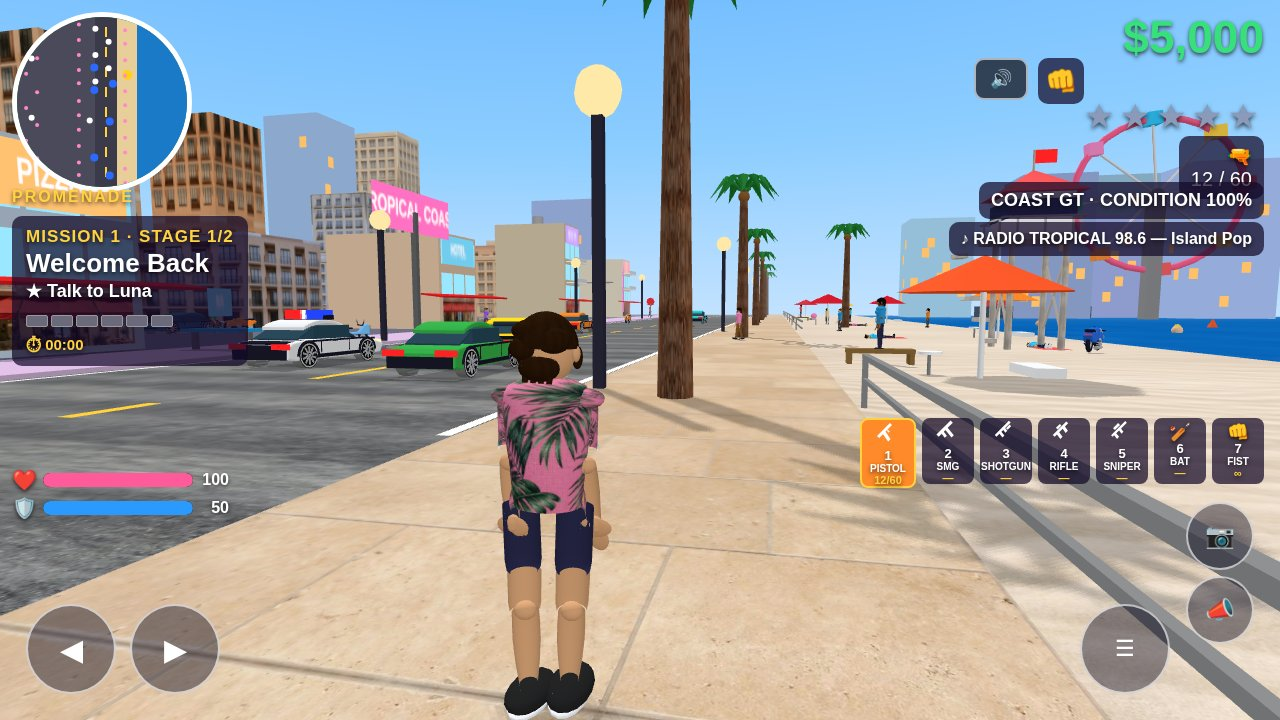
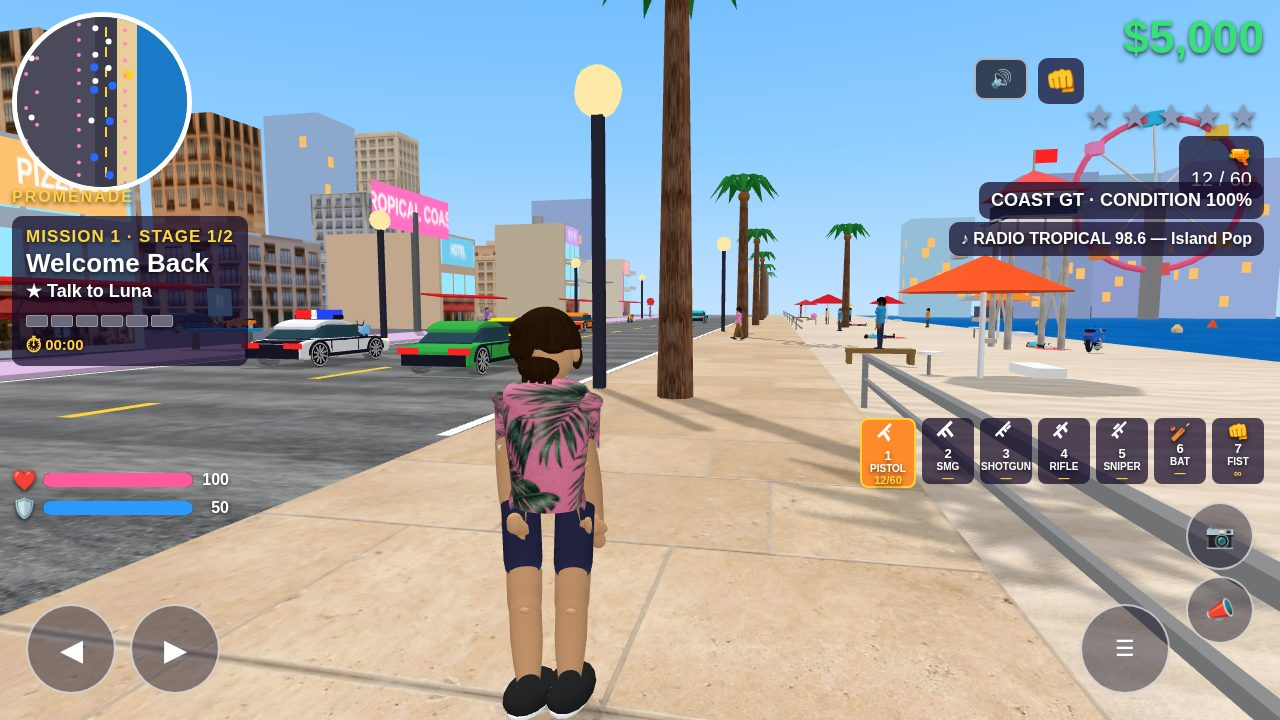
Tropical Coast: thicker arms/legs, buried elbow/knee joints, chunky shoes, fuller hair (round 2)

diff --git a/game/src/character.js b/game/src/character.js
@@ -9,12 +9,12 @@ var hairCols = [0x2a1a0a, 0x3a2a1a, 0x111111, 0x8a5a2a];
 // read as a rake), and a small round thumb bump on the inner edge.
 function makeHand(skinM, side) {
   var h = new THREE.Group();
-  var palm = new THREE.Mesh(new THREE.SphereGeometry(0.058, 16, 12), skinM);
+  var palm = new THREE.Mesh(new THREE.SphereGeometry(0.052, 16, 12), skinM);
   palm.scale.set(1.35, 1.0, 0.34); h.add(palm);
-  var fingerMass = new THREE.Mesh(new THREE.SphereGeometry(0.05, 14, 10), skinM);
-  fingerMass.scale.set(1.0, 1.55, 0.30); fingerMass.position.set(0, -0.078, 0.008); h.add(fingerMass);
-  var th = new THREE.Mesh(new THREE.SphereGeometry(0.016, 10, 8), skinM);
-  th.scale.set(1, 1.4, 0.8); th.position.set(-side * 0.052, -0.035, 0.012); h.add(th);
+  var fingerMass = new THREE.Mesh(new THREE.SphereGeometry(0.046, 14, 10), skinM);
+  fingerMass.scale.set(1.0, 1.55, 0.30); fingerMass.position.set(0, -0.072, 0.008); h.add(fingerMass);
+  var th = new THREE.Mesh(new THREE.SphereGeometry(0.015, 10, 8), skinM);
+  th.scale.set(1, 1.4, 0.8); th.position.set(-side * 0.048, -0.032, 0.012); h.add(th);
   return h;
 }
 // A shoe: a wide elliptical upper (not a ball, not a box) on a thin light
@@ -23,9 +23,9 @@ function makeShoe(color, s) {
   var g = new THREE.Group();
   var m = new THREE.MeshLambertMaterial({ color: color });
   var body = new THREE.Mesh(new THREE.SphereGeometry(0.075 * s, 16, 12), m);
-  body.scale.set(1.15, 0.55, 1.9); body.position.set(0, -0.39, 0.02); g.add(body);
-  var sole = new THREE.Mesh(new THREE.SphereGeometry(0.075 * s, 16, 12), new THREE.MeshLambertMaterial({ color: 0xf5f5f5 }));
-  sole.scale.set(1.0, 0.30, 1.85); sole.position.set(0, -0.43, 0.02); g.add(sole);
+  body.scale.set(1.22, 0.62, 1.95); body.position.set(0, -0.39, 0.02); g.add(body);
+  var sole = new THREE.Mesh(new THREE.SphereGeometry(0.075 * s, 16, 12), new THREE.MeshLambertMaterial({ color: 0xffffff }));
+  sole.scale.set(1.05, 0.38, 1.9); sole.position.set(0, -0.425, 0.02); g.add(sole);
   [[-0.352, 0.06], [-0.358, 0.10], [-0.370, 0.14]].forEach(function (lz) {
     var lace = new THREE.Mesh(new THREE.BoxGeometry(0.04 * s, 0.008 * s, 0.018 * s), new THREE.MeshLambertMaterial({ color: 0xf5f5f5 }));
     lace.position.set(0, lz[0], lz[1]); g.add(lace);
@@ -47,8 +47,8 @@ function makeHead(skinM, hairM, opts) {
   skull.scale.set(1, 1.15, 1.0); head.add(skull);
   var jaw = new THREE.Mesh(new THREE.SphereGeometry(0.085, 14, 12), skinM);
   jaw.scale.set(0.82, 0.62, 0.88); jaw.position.set(0, -0.075, 0.015); head.add(jaw);
-  var hair = new THREE.Mesh(new THREE.SphereGeometry(0.14, 20, 16, 0, Math.PI * 2, 0, Math.PI * 0.50), hairM);
-  hair.scale.set(1.02, 1.12, 1.05); hair.position.set(0, 0.025, -0.015); head.add(hair);
+  var hair = new THREE.Mesh(new THREE.SphereGeometry(0.15, 20, 16, 0, Math.PI * 2, 0, Math.PI * 0.50), hairM);
+  hair.scale.set(1.05, 1.18, 1.08); hair.position.set(0, 0.025, -0.015); head.add(hair);
   var nape = new THREE.Mesh(new THREE.SphereGeometry(0.10, 14, 12), hairM);
   nape.scale.set(0.95, 0.6, 0.55); nape.position.set(0, -0.06, -0.095); head.add(nape);
   [-0.055, -0.018, 0.018, 0.055].forEach(function (lx) {
@@ -56,15 +56,15 @@ function makeHead(skinM, hairM, opts) {
     lock.position.set(lx, -0.10, -0.11); lock.rotation.x = 0.15; head.add(lock);
   });
   var crown = new THREE.Mesh(new THREE.SphereGeometry(0.105, 14, 12), hairM);
-  crown.scale.set(1.25, 0.55, 1.05); crown.position.set(0.02, 0.095, -0.03); head.add(crown);
+  crown.scale.set(1.35, 0.65, 1.10); crown.position.set(0.02, 0.10, -0.03); head.add(crown);
   var backB1 = new THREE.Mesh(new THREE.SphereGeometry(0.08, 14, 12), hairM);
   backB1.scale.set(1.0, 0.7, 0.6); backB1.position.set(-0.06, 0.06, -0.10); head.add(backB1);
   var backB2 = new THREE.Mesh(new THREE.SphereGeometry(0.07, 14, 12), hairM);
   backB2.scale.set(0.9, 0.7, 0.6); backB2.position.set(0.07, 0.02, -0.11); head.add(backB2);
   var sweep = new THREE.Mesh(new THREE.SphereGeometry(0.105, 14, 12), hairM);
-  sweep.scale.set(0.55, 0.85, 0.95); sweep.position.set(0.085, 0.02, -0.01); head.add(sweep);
+  sweep.scale.set(0.6, 0.9, 1.0); sweep.position.set(0.085, 0.02, -0.01); head.add(sweep);
   var fringe = new THREE.Mesh(new THREE.SphereGeometry(0.10, 14, 12), hairM);
-  fringe.scale.set(1.0, 0.35, 0.5); fringe.position.set(0.04, 0.10, 0.085); head.add(fringe);
+  fringe.scale.set(1.05, 0.45, 0.55); fringe.position.set(0.04, 0.105, 0.09); head.add(fringe);
   [-0.125, 0.125].forEach(function (ex) {
     var sb = new THREE.Mesh(new THREE.SphereGeometry(0.04, 12, 10), hairM);
     sb.scale.set(0.6, 1.3, 0.7); sb.position.set(ex, -0.02, 0.05); head.add(sb);
@@ -144,14 +144,14 @@ function person(shirt, pants, female, opts) {
   legL.rotation.z = 0.02; legR.rotation.z = -0.08;
   [legL, legR].forEach(function (lg) {
     var thighPts = [];
-    [[0.084, 0.25], [0.084, -0.17], [0.078, -0.23], [0.060, -0.25]].forEach(function (p) { thighPts.push(new THREE.Vector2(p[0], p[1])); });
+    [[0.088, 0.25], [0.088, -0.17], [0.082, -0.23], [0.064, -0.25]].forEach(function (p) { thighPts.push(new THREE.Vector2(p[0], p[1])); });
     var thigh = new THREE.Mesh(new THREE.LatheGeometry(thighPts, 20), pantsM);
     thigh.position.y = -0.25; lg.add(thigh);
     var knee = new THREE.Group(); knee.position.y = -0.50; lg.add(knee);
-    var kneeBall = new THREE.Mesh(new THREE.SphereGeometry(0.052, 12, 10), pantsM);
-    kneeBall.scale.set(1.0, 0.8, 0.9); knee.add(kneeBall);
+    var kneeBall = new THREE.Mesh(new THREE.SphereGeometry(0.024, 12, 10), pantsM);
+    kneeBall.scale.set(1.0, 0.55, 0.7); kneeBall.position.z = -0.008; knee.add(kneeBall);
     var calfPts = [];
-    [[0.062, 0.00], [0.064, -0.06], [0.064, -0.14], [0.056, -0.24], [0.044, -0.33], [0.034, -0.40], [0.032, -0.44]].forEach(function (p) { calfPts.push(new THREE.Vector2(p[0], p[1])); });
+    [[0.072, 0.10], [0.074, 0.00], [0.074, -0.06], [0.074, -0.14], [0.066, -0.24], [0.054, -0.33], [0.044, -0.40], [0.042, -0.44]].forEach(function (p) { calfPts.push(new THREE.Vector2(p[0], p[1])); });
     var calf = new THREE.Mesh(new THREE.LatheGeometry(calfPts, 20), pantsM);
     knee.add(calf);
     knee.add(makeShoe(0x222222, 1.25));
@@ -170,29 +170,29 @@ function person(shirt, pants, female, opts) {
   var neck = new THREE.Mesh(new THREE.CapsuleGeometry(0.068, 0.08, 4, 12), skin);
   neck.position.y = 1.52; g.add(neck);
   var armL = new THREE.Group(), armR = new THREE.Group();
-  armL.position.set(-0.17, 1.44, 0); armR.position.set(0.17, 1.44, 0);
+  armL.position.set(-0.16, 1.44, 0); armR.position.set(0.16, 1.44, 0);
   armL.rotation.z = 0.01; armR.rotation.z = -0.01;
   [[armL, -1], [armR, 1]].forEach(function (pair) {
     var ag = pair[0], side = pair[1];
-    var shoulder = new THREE.Mesh(new THREE.SphereGeometry(0.075, 16, 12), female ? skin : shirtM);
-    shoulder.scale.set(1.25, 0.62, 1.0);
+    var shoulder = new THREE.Mesh(new THREE.SphereGeometry(0.085, 16, 12), female ? skin : shirtM);
+    shoulder.scale.set(1.15, 0.55, 0.95); shoulder.position.y = -0.015;
     ag.add(shoulder);
     var slPts = [];
-    [[0.060, 0.00], [0.062, -0.02], [0.060, -0.06], [0.056, -0.12], [0.052, -0.20]].forEach(function (p) { slPts.push(new THREE.Vector2(p[0], p[1])); });
+    [[0.080, 0.00], [0.082, -0.02], [0.080, -0.06], [0.076, -0.12], [0.072, -0.20]].forEach(function (p) { slPts.push(new THREE.Vector2(p[0], p[1])); });
     var sleeve = new THREE.Mesh(new THREE.LatheGeometry(slPts, 20), female ? skin : shirtM);
     sleeve.position.y = -0.03; ag.add(sleeve);
     var elbowBend = -0.25 + (rnd() - 0.5) * 0.12;
     if (opts && opts.flat) elbowBend = 0;
     var elbow = new THREE.Group(); elbow.position.y = -0.30;
     elbow.rotation.x = elbowBend; elbow.rotation.z = side * 0.03; ag.add(elbow);
-    var elbowBall = new THREE.Mesh(new THREE.SphereGeometry(0.046, 12, 10), skin);
-    elbowBall.scale.set(1, 0.85, 0.9);
+    var elbowBall = new THREE.Mesh(new THREE.SphereGeometry(0.024, 12, 10), skin);
+    elbowBall.scale.set(1, 0.6, 0.75);
     elbow.add(elbowBall);
     var forePts = [];
-    [[0.045, 0.00], [0.047, -0.06], [0.045, -0.14], [0.038, -0.22], [0.033, -0.28], [0.030, -0.32]].forEach(function (p) { forePts.push(new THREE.Vector2(p[0], p[1])); });
+    [[0.068, 0.10], [0.070, 0.00], [0.070, -0.06], [0.068, -0.14], [0.061, -0.22], [0.056, -0.28], [0.052, -0.32]].forEach(function (p) { forePts.push(new THREE.Vector2(p[0], p[1])); });
     var fore = new THREE.Mesh(new THREE.LatheGeometry(forePts, 20), skin);
     elbow.add(fore);
-    var wrist = new THREE.Mesh(new THREE.CapsuleGeometry(0.032, 0.02, 4, 12), skin);
+    var wrist = new THREE.Mesh(new THREE.CapsuleGeometry(0.040, 0.02, 4, 12), skin);
     wrist.position.y = -0.315; elbow.add(wrist);
     var hand = makeHand(skin, side); hand.position.y = -0.33; hand.rotation.x = (opts && opts.flat) ? 0 : -0.15; elbow.add(hand);
   });
@@ -219,16 +219,16 @@ var gito = new THREE.Group();
   legL.rotation.z = 0.05; legR.rotation.z = -0.05;
   [legL, legR].forEach(function (lg) {
     var shortsPts = [];
-    [[0.084, 0.16], [0.084, -0.10], [0.078, -0.14], [0.062, -0.16]].forEach(function (p) { shortsPts.push(new THREE.Vector2(p[0], p[1])); });
+    [[0.088, 0.16], [0.088, -0.10], [0.082, -0.14], [0.066, -0.16]].forEach(function (p) { shortsPts.push(new THREE.Vector2(p[0], p[1])); });
     var shorts = new THREE.Mesh(new THREE.LatheGeometry(shortsPts, 20), mPants); shorts.position.y = -0.16; lg.add(shorts);
     var thighSkinPts = [];
-    [[0.078, 0.09], [0.075, -0.05], [0.068, -0.09]].forEach(function (p) { thighSkinPts.push(new THREE.Vector2(p[0], p[1])); });
+    [[0.082, 0.09], [0.079, -0.05], [0.072, -0.09]].forEach(function (p) { thighSkinPts.push(new THREE.Vector2(p[0], p[1])); });
     var thighSkin = new THREE.Mesh(new THREE.LatheGeometry(thighSkinPts, 20), mSkin); thighSkin.position.y = -0.41; lg.add(thighSkin);
     var knee = new THREE.Group(); knee.position.y = -0.50; lg.add(knee);
-    var kneeBall = new THREE.Mesh(new THREE.SphereGeometry(0.052, 12, 10), mSkin);
-    kneeBall.scale.set(1.0, 0.8, 0.9); knee.add(kneeBall);
+    var kneeBall = new THREE.Mesh(new THREE.SphereGeometry(0.024, 12, 10), mSkin);
+    kneeBall.scale.set(1.0, 0.55, 0.7); kneeBall.position.z = -0.008; knee.add(kneeBall);
     var calfPts = [];
-    [[0.062, 0.00], [0.064, -0.06], [0.064, -0.14], [0.056, -0.24], [0.044, -0.33], [0.034, -0.40], [0.032, -0.44]].forEach(function (p) { calfPts.push(new THREE.Vector2(p[0], p[1])); });
+    [[0.072, 0.10], [0.074, 0.00], [0.074, -0.06], [0.074, -0.14], [0.066, -0.24], [0.054, -0.33], [0.044, -0.40], [0.042, -0.44]].forEach(function (p) { calfPts.push(new THREE.Vector2(p[0], p[1])); });
     var calf = new THREE.Mesh(new THREE.LatheGeometry(calfPts, 20), mSkin);
     knee.add(calf);
     knee.add(makeShoe(0x222222, 1.25));
@@ -250,28 +250,28 @@ var gito = new THREE.Group();
   var collar = new THREE.Mesh(new THREE.LatheGeometry(collarPts, 16), new THREE.MeshLambertMaterial({ color: 0xf5f5f5 }));
   collar.position.y = 1.50; gito.add(collar);
   var armL = new THREE.Group(), armR = new THREE.Group();
-  armL.position.set(-0.17, 1.44, 0); armR.position.set(0.17, 1.44, 0);
+  armL.position.set(-0.16, 1.44, 0); armR.position.set(0.16, 1.44, 0);
   armL.rotation.z = 0.01; armR.rotation.z = -0.01;
   [[armL, -1], [armR, 1]].forEach(function (pair) {
     var ag = pair[0], side = pair[1];
-    var shoulder = new THREE.Mesh(new THREE.SphereGeometry(0.075, 16, 12), mShirt);
-    shoulder.scale.set(1.25, 0.62, 1.0);
+    var shoulder = new THREE.Mesh(new THREE.SphereGeometry(0.085, 16, 12), mShirt);
+    shoulder.scale.set(1.15, 0.55, 0.95); shoulder.position.y = -0.015;
     ag.add(shoulder);
     var slPts = [];
-    [[0.060, 0.00], [0.062, -0.02], [0.060, -0.06], [0.056, -0.12], [0.052, -0.20]].forEach(function (p) { slPts.push(new THREE.Vector2(p[0], p[1])); });
+    [[0.080, 0.00], [0.082, -0.02], [0.080, -0.06], [0.076, -0.12], [0.072, -0.20]].forEach(function (p) { slPts.push(new THREE.Vector2(p[0], p[1])); });
     var sleeve = new THREE.Mesh(new THREE.LatheGeometry(slPts, 20), mShirt); sleeve.position.y = -0.03; ag.add(sleeve);
     var cuffPts = [];
-    [[0.052, 0.015], [0.058, 0.008], [0.058, -0.008], [0.052, -0.015]].forEach(function (p) { cuffPts.push(new THREE.Vector2(p[0], p[1])); });
+    [[0.058, 0.015], [0.064, 0.008], [0.064, -0.008], [0.058, -0.015]].forEach(function (p) { cuffPts.push(new THREE.Vector2(p[0], p[1])); });
     var cuff = new THREE.Mesh(new THREE.LatheGeometry(cuffPts, 16), new THREE.MeshLambertMaterial({ color: 0xf5f5f5 })); cuff.position.y = -0.22; ag.add(cuff);
     var elbow = new THREE.Group(); elbow.position.y = -0.30; elbow.rotation.x = -0.25; elbow.rotation.z = side * 0.03; ag.add(elbow);
-    var elbowBall = new THREE.Mesh(new THREE.SphereGeometry(0.046, 12, 10), mSkin);
-    elbowBall.scale.set(1, 0.85, 0.9);
+    var elbowBall = new THREE.Mesh(new THREE.SphereGeometry(0.024, 12, 10), mSkin);
+    elbowBall.scale.set(1, 0.6, 0.75);
     elbow.add(elbowBall);
     var forePts = [];
-    [[0.045, 0.00], [0.047, -0.06], [0.045, -0.14], [0.038, -0.22], [0.033, -0.28], [0.030, -0.32]].forEach(function (p) { forePts.push(new THREE.Vector2(p[0], p[1])); });
+    [[0.068, 0.10], [0.070, 0.00], [0.070, -0.06], [0.068, -0.14], [0.061, -0.22], [0.056, -0.28], [0.052, -0.32]].forEach(function (p) { forePts.push(new THREE.Vector2(p[0], p[1])); });
     var fore = new THREE.Mesh(new THREE.LatheGeometry(forePts, 20), mSkin);
     elbow.add(fore);
-    var wrist = new THREE.Mesh(new THREE.CapsuleGeometry(0.032, 0.02, 4, 12), mSkin);
+    var wrist = new THREE.Mesh(new THREE.CapsuleGeometry(0.040, 0.02, 4, 12), mSkin);
     wrist.position.y = -0.315; elbow.add(wrist);
     var hand = makeHand(mSkin, side); hand.position.y = -0.33; hand.rotation.x = -0.15; elbow.add(hand);
   });
@@ -296,10 +296,10 @@ var woman = new THREE.Group();
   [[0.155, 0.00], [0.160, 0.10], [0.168, 0.20], [0.178, 0.28], [0.182, 0.36], [0.178, 0.44], [0.165, 0.48], [0.135, 0.51], [0.105, 0.53], [0.085, 0.54]].forEach(function (p) { wTopPts.push(new THREE.Vector2(p[0], p[1])); });
   var wTop = new THREE.Mesh(new THREE.LatheGeometry(wTopPts, 20), new THREE.MeshLambertMaterial({ color: 0xff8ac8 }));
   wTop.position.y = 0.95; wTop.scale.z = 0.80; woman.add(wTop);
-  [-0.16, 0.16].forEach(function (sx) {
-    var dome = new THREE.Mesh(new THREE.SphereGeometry(0.065, 14, 12), wSkin);
-    dome.scale.set(1.1, 0.5, 0.85);
-    dome.position.set(sx, 1.43, 0);
+  [-0.155, 0.155].forEach(function (sx) {
+    var dome = new THREE.Mesh(new THREE.SphereGeometry(0.052, 14, 12), wSkin);
+    dome.scale.set(1.0, 0.42, 0.8);
+    dome.position.set(sx, 1.41, 0);
     woman.add(dome);
   });
   var wNeck = new THREE.Mesh(new THREE.CapsuleGeometry(0.066, 0.08, 4, 12), wSkin);
@@ -320,40 +320,40 @@ var woman = new THREE.Group();
   legL.position.set(-0.13, 0.95, 0); legR.position.set(0.13, 0.95, 0);
   [legL, legR].forEach(function (lg) {
     var thighPts = [];
-    [[0.078, 0.25], [0.078, -0.17], [0.074, -0.23], [0.060, -0.25]].forEach(function (p) { thighPts.push(new THREE.Vector2(p[0], p[1])); });
+    [[0.082, 0.25], [0.082, -0.17], [0.078, -0.23], [0.064, -0.25]].forEach(function (p) { thighPts.push(new THREE.Vector2(p[0], p[1])); });
     var thigh = new THREE.Mesh(new THREE.LatheGeometry(thighPts, 20), wDenim);
     thigh.position.y = -0.25; lg.add(thigh);
     var knee = new THREE.Group(); knee.position.y = -0.50; lg.add(knee);
-    var kneeBall = new THREE.Mesh(new THREE.SphereGeometry(0.050, 12, 10), wDenim);
-    kneeBall.scale.set(1.0, 0.8, 0.9); knee.add(kneeBall);
+    var kneeBall = new THREE.Mesh(new THREE.SphereGeometry(0.024, 12, 10), wDenim);
+    kneeBall.scale.set(1.0, 0.55, 0.7); kneeBall.position.z = -0.008; knee.add(kneeBall);
     var calfPts = [];
-    [[0.060, 0.00], [0.062, -0.06], [0.062, -0.14], [0.054, -0.24], [0.043, -0.33], [0.033, -0.40], [0.031, -0.44]].forEach(function (p) { calfPts.push(new THREE.Vector2(p[0], p[1])); });
+    [[0.070, 0.10], [0.072, 0.00], [0.074, -0.06], [0.074, -0.14], [0.066, -0.24], [0.055, -0.33], [0.045, -0.40], [0.043, -0.44]].forEach(function (p) { calfPts.push(new THREE.Vector2(p[0], p[1])); });
     var calf = new THREE.Mesh(new THREE.LatheGeometry(calfPts, 20), wDenim);
     knee.add(calf);
     knee.add(makeShoe(0x8a2a5a, 1.1));
   });
   woman.add(legL); woman.add(legR);
   var armL = new THREE.Group(), armR = new THREE.Group();
-  armL.position.set(-0.16, 1.44, 0); armR.position.set(0.16, 1.44, 0);
+  armL.position.set(-0.15, 1.44, 0); armR.position.set(0.15, 1.44, 0);
   armL.rotation.z = 0.01; armR.rotation.z = -0.01;
   [[armL, -1], [armR, 1]].forEach(function (pair) {
     var ag = pair[0], side = pair[1];
     var shoulder = new THREE.Mesh(new THREE.SphereGeometry(0.068, 16, 12), wSkin);
-    shoulder.scale.set(1.25, 0.62, 1.0);
+    shoulder.scale.set(1.0, 0.55, 0.9); shoulder.position.y = -0.02;
     ag.add(shoulder);
     var upperPts = [];
-    [[0.058, 0.17], [0.056, -0.10], [0.050, -0.15], [0.044, -0.17]].forEach(function (p) { upperPts.push(new THREE.Vector2(p[0], p[1])); });
+    [[0.076, 0.17], [0.074, -0.10], [0.068, -0.15], [0.062, -0.17]].forEach(function (p) { upperPts.push(new THREE.Vector2(p[0], p[1])); });
     var upper = new THREE.Mesh(new THREE.LatheGeometry(upperPts, 20), wSkin);
     upper.position.y = -0.13; ag.add(upper);
     var elbow = new THREE.Group(); elbow.position.y = -0.30; elbow.rotation.x = -0.35; elbow.rotation.z = side * 0.03; ag.add(elbow);
-    var elbowBall = new THREE.Mesh(new THREE.SphereGeometry(0.046, 12, 10), wSkin);
-    elbowBall.scale.set(1, 0.85, 0.9);
+    var elbowBall = new THREE.Mesh(new THREE.SphereGeometry(0.024, 12, 10), wSkin);
+    elbowBall.scale.set(1, 0.6, 0.75);
     elbow.add(elbowBall);
     var forePts = [];
-    [[0.044, 0.00], [0.046, -0.06], [0.044, -0.14], [0.037, -0.22], [0.032, -0.28], [0.029, -0.32]].forEach(function (p) { forePts.push(new THREE.Vector2(p[0], p[1])); });
+    [[0.064, 0.10], [0.066, 0.00], [0.066, -0.06], [0.064, -0.14], [0.057, -0.22], [0.052, -0.28], [0.049, -0.32]].forEach(function (p) { forePts.push(new THREE.Vector2(p[0], p[1])); });
     var fore = new THREE.Mesh(new THREE.LatheGeometry(forePts, 20), wSkin);
     elbow.add(fore);
-    var wrist = new THREE.Mesh(new THREE.CapsuleGeometry(0.031, 0.02, 4, 12), wSkin);
+    var wrist = new THREE.Mesh(new THREE.CapsuleGeometry(0.038, 0.02, 4, 12), wSkin);
     wrist.position.y = -0.315; elbow.add(wrist);
     var hand = makeHand(wSkin, side); hand.position.y = -0.33; hand.rotation.x = -0.15; elbow.add(hand);
   });
